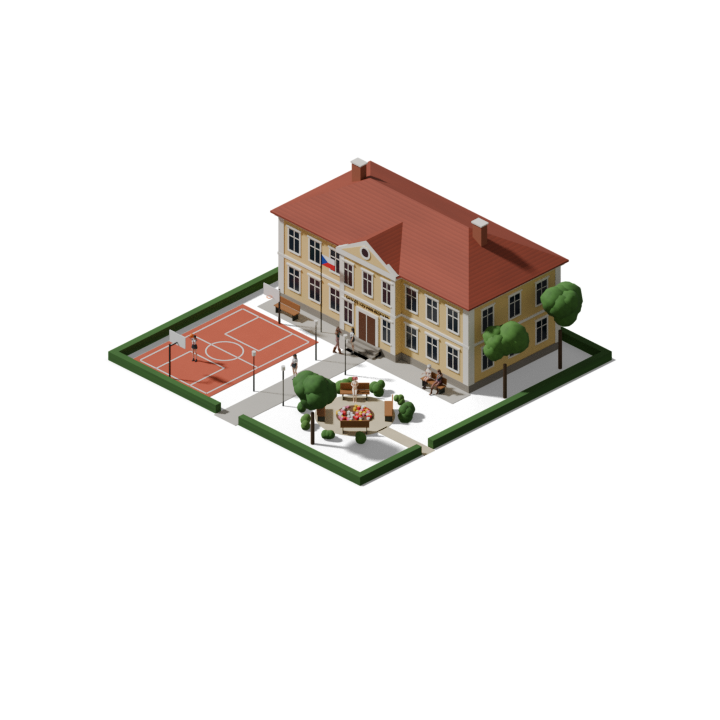
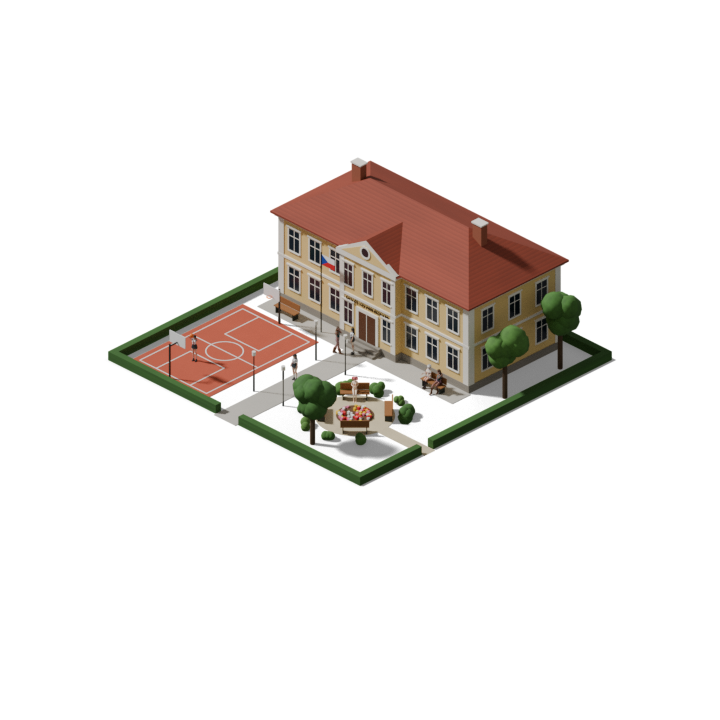
Gymnazium: cerna mista u schodu a dlazby pryc, stromy s kmenem az do koruny
Plochy pres sebe ve stejne rovine vysly v renderu cerne (bok schodu ze tri
kvadru, hlavni cesta pres dlazbu podel prucelim, sokl a rimsy rizalitu,
pricle oken, cary hriste, sterk v parku). Schody jsou ted jeden hranol se
tremi stupni, cesta navazuje na dlazbu, ostatni preklady posunute o mm.
Stromy: kmen sahal jen do 45 % vysky a koruna byla nad nim ve vzduchu,
ted kmen jde do koruny a spodek koruny je u kmene.

Znovu vyfocene vsechny ctyri obrazky (4x a 8x, bez holek i s holkami),
rohy v JSONu stejne, 8x presne dvojnasobek 4x. Poznamka pro hru v
hra/zarovnani-budov/ODPOVED-PRO-HRU.md: rozkrajet znovu.

Claude-Session: https://claude.ai/code/session_01P6zYdmMEQjTTZJyV6Qb8Ch

diff --git a/gymnazium/render_gymnazium.py b/gymnazium/render_gymnazium.py
@@ -156,9 +156,9 @@ for xx in (X0, X1 - LIZ):                                                       
     kvadr(M["bila"], xx, xx + LIZ, Y1, Y1 + 0.06, ZS, ZPP)
 # rizalit
 kvadr(M["fasada"], X1, RIZ_X, RIZ_Y0, RIZ_Y1, ZS, ZPP)
-kvadr(M["sokl"], X1, RIZ_X + 0.06, RIZ_Y0 - 0.06, RIZ_Y1 + 0.06, 0.0, ZS)
-kvadr(M["bila"], X1, RIZ_X + 0.25, RIZ_Y0 - 0.25, RIZ_Y1 + 0.25, ZPP, ZR)
-kvadr(M["bila"], X1, RIZ_X + 0.08, RIZ_Y0 - 0.08, RIZ_Y1 + 0.08, ZP - 0.1, ZP + 0.12)
+kvadr(M["sokl"], X1 + 0.06, RIZ_X + 0.06, RIZ_Y0 - 0.06, RIZ_Y1 + 0.06, 0.0, ZS)       # navazuji na sokl a rimsy hlavni
+kvadr(M["bila"], X1 + 0.25, RIZ_X + 0.25, RIZ_Y0 - 0.25, RIZ_Y1 + 0.25, ZPP, ZR)         # budovy (driv prekryv ve stejne
+kvadr(M["bila"], X1 + 0.08, RIZ_X + 0.08, RIZ_Y0 - 0.08, RIZ_Y1 + 0.08, ZP - 0.1, ZP + 0.12)  # vysce = cerna linka)
 for yy in (RIZ_Y0, RIZ_Y1 - 0.5):
     kvadr(M["bila"], RIZ_X, RIZ_X + 0.06, yy, yy + 0.5, ZS, ZPP)
 # stit nad rizalitem (trojuhelnik v rovine prucelim) a v nem kulate okno
@@ -206,7 +206,7 @@ def okno(prucelim, u, z0, z1, sirka=1.2):
     q(M["bila"], u - s2 - 0.22, u + s2 + 0.22, 0.0, 0.12, z1 + o, z1 + o + 0.12)   # nadokenni rimsa
     q(M["bila"], u - 0.03, u + 0.03, 0.0, 0.03, z0, z1)                    # poutce
     zt = z0 + (z1 - z0) * 0.68
-    q(M["bila"], u - s2, u + s2, 0.0, 0.03, zt - 0.03, zt + 0.03)
+    q(M["bila"], u - s2, u + s2, 0.0, 0.032, zt - 0.03, zt + 0.03)          # o 2 mm pred poutcem (krizeni)
 
 OKNA_Z = [(1.55, 3.55), (5.15, 7.15)]
 for z0, z1 in OKNA_Z:
@@ -220,9 +220,15 @@ okno(('x', RIZ_X), YC, 5.15, 7.15, 1.0)
 # vstup: dvoukridle dvere v portalu, nad nimi napis, pred nimi tri schody
 kvadr(M["bila"], RIZ_X, RIZ_X + 0.1, YC - 1.25, YC + 1.25, ZS, 3.55)          # portal
 kvadr(M["dvere"], RIZ_X + 0.1, RIZ_X + 0.13, YC - 0.95, YC + 0.95, ZS, 3.25)
-kvadr(M["bila"], RIZ_X + 0.1, RIZ_X + 0.15, YC - 0.03, YC + 0.03, ZS, 3.25)
-for i in range(3):
-    kvadr(M["sokl"], RIZ_X, RIZ_X + 0.36 * (3 - i), YC - 1.6, YC + 1.6, 0.0, 0.23 * (i + 1))
+kvadr(M["bila"], RIZ_X + 0.1, RIZ_X + 0.15, YC - 0.03, YC + 0.03, ZS, 3.24)
+# Schody jako jeden hranol se schodovitym profilem (do 2. 10. tri kvadry pres sebe: jejich boky lezely v jedne rovine
+# pres sebe a Cycles takove plochy kresli cerne, hrac: "schody chybi jim bok", "ta cerna mista"). Zadni stena 5 cm
+# v soklu rizalitu, at nelezi v rovine jeho lice.
+PROFIL = [(RIZ_X - 0.05, 0.0), (RIZ_X + 1.08, 0.0), (RIZ_X + 1.08, 0.23), (RIZ_X + 0.72, 0.23), (RIZ_X + 0.72, 0.46),
+          (RIZ_X + 0.36, 0.46), (RIZ_X + 0.36, 0.69), (RIZ_X - 0.05, 0.69)]
+_n = len(PROFIL)
+mnohostena(M["sokl"], [(x, YC - 1.6, z) for x, z in PROFIL] + [(x, YC + 1.6, z) for x, z in PROFIL],
+           [tuple(range(_n)), tuple(range(2 * _n - 1, _n - 1, -1))] + [(k, k + _n, (k + 1) % _n + _n, (k + 1) % _n) for k in range(_n)])
 bpy.ops.object.text_add(location=B(RIZ_X + 0.07, YC, 3.92), rotation=(math.radians(90), 0, 0))
 napis = bpy.context.object; napis.data.body = "DÍVČÍ GYMNÁZIUM"; napis.data.align_x = 'CENTER'; napis.data.align_y = 'CENTER'
 napis.data.font = bpy.data.fonts.load("/usr/share/fonts/truetype/dejavu/DejaVuSans-Bold.ttf")
@@ -253,23 +259,25 @@ for yy in (Y0 + 4.0, Y1 - 4.0):                                     # dva komín
 # ---------------------------------------------------------------- okoli: predprostor, cesty, hriste, park
 Z_ZEM = 0.035
 kvadr(M["dlazba"], X1 + 0.06, X1 + 2.2, Y0 - 0.3, Y1 + 0.3, 0.0, Z_ZEM)            # dlazba podel prucelim
-kvadr(M["dlazba"], RIZ_X + 1.08, P, YC - 1.25, YC + 1.25, 0.0, Z_ZEM)          # hlavni cesta k plotu
+kvadr(M["dlazba"], X1 + 2.2, P, YC - 1.25, YC + 1.25, 0.0, Z_ZEM)             # hlavni cesta k plotu, navazuje na dlazbu
+                                                                                 # podel prucelim (driv se prekryvaly: cerny pas)
 # hriste: cerveny kurt s carami a dvema kosi (podel osy x)
 KX0, KX1, KY0, KY1 = 15.2, 28.2, 1.6, 10.4
 kvadr(M["kurt"], KX0, KX1, KY0, KY1, 0.0, Z_ZEM)
 C, ZC_ = 0.08, Z_ZEM + 0.004
 kx0, kx1, ky0, ky1 = KX0 + 0.5, KX1 - 0.5, KY0 + 0.5, KY1 - 0.5
-for (a0, a1, b0, b1) in ((kx0, kx1, ky0, ky0 + C), (kx0, kx1, ky1 - C, ky1), (kx0, kx0 + C, ky0, ky1), (kx1 - C, kx1, ky0, ky1)):
-    kvadr(M["cara"], a0, a1, b0, b1, 0.0, ZC_)
+# cary, ktere se krizi, kazda o 0,5 mm jinak vysoko (ve stejne vysce by krizeni bylo cerne)
+for k, (a0, a1, b0, b1) in enumerate(((kx0, kx1, ky0, ky0 + C), (kx0, kx1, ky1 - C, ky1), (kx0, kx0 + C, ky0, ky1), (kx1 - C, kx1, ky0, ky1))):
+    kvadr(M["cara"], a0, a1, b0, b1, 0.0, ZC_ + 0.0005 * (k // 2))
 kxs, kys = (kx0 + kx1) / 2, (ky0 + ky1) / 2
-kvadr(M["cara"], kxs - C / 2, kxs + C / 2, ky0, ky1, 0.0, ZC_)
-mezikruzi(M["cara"], kxs, kys, 0.0, ZC_, 1.5, 1.5 + C)
+kvadr(M["cara"], kxs - C / 2, kxs + C / 2, ky0, ky1, 0.0, ZC_ + 0.001)
+mezikruzi(M["cara"], kxs, kys, 0.0, ZC_ + 0.0015, 1.5, 1.5 + C)
 for kraj, smer in ((kx0, 1), (kx1, -1)):
     xa, xb = sorted((kraj, kraj + smer * 4.0))
     for (a0, a1, b0, b1) in ((xa, xb, kys - 2.0, kys - 2.0 + C), (xa, xb, kys + 2.0 - C, kys + 2.0)):
-        kvadr(M["cara"], a0, a1, b0, b1, 0.0, ZC_)
+        kvadr(M["cara"], a0, a1, b0, b1, 0.0, ZC_ + 0.002)
     xr = kraj + smer * 4.0
-    kvadr(M["cara"], xr - C / 2, xr + C / 2, kys - 2.0, kys + 2.0, 0.0, ZC_)
+    kvadr(M["cara"], xr - C / 2, xr + C / 2, kys - 2.0, kys + 2.0, 0.0, ZC_ + 0.0025)
     # kos: sloup za cárou, rameno, deska a obruc
     xs = kraj - smer * 0.35
     kvadr(M["kov"], xs - 0.06, xs + 0.06, kys - 0.06, kys + 0.06, 0.0, 3.3)
@@ -287,8 +295,8 @@ for i in range(70):                                                     # kvetin
     r = 1.45 * math.sqrt(random.random()); a = random.random() * 2 * math.pi
     x, y = PX_ + r * math.cos(a), PY_ + r * math.sin(a)
     kvadr(KVETY[i % len(KVETY)], x - 0.09, x + 0.09, y - 0.09, y + 0.09, Z_ZEM + 0.08, Z_ZEM + 0.08 + 0.12 + 0.12 * random.random())
-kvadr(M["sterk"], PX_ - 0.6, PX_ + 0.6, YC + 1.25, PY_ - 3.1, 0.0, Z_ZEM)
-kvadr(M["sterk"], PX_ - 0.6, PX_ + 0.6, PY_ + 3.1, P, 0.0, Z_ZEM)
+kvadr(M["sterk"], PX_ - 0.6, PX_ + 0.6, YC + 1.25, PY_ - 3.1, 0.0, Z_ZEM - 0.002)    # o 2 mm nize nez namesticko,
+kvadr(M["sterk"], PX_ - 0.6, PX_ + 0.6, PY_ + 3.1, P, 0.0, Z_ZEM - 0.002)            # do ktereho kus zajizdeji
 # Holky a lavicky 1,5x vetsi nez budova (hrac 1. 10.: "skola zvetsit studentky, zvetsime i lavicky, dvere do skoly jsou
 # velke dost, muzem zvetsit studentky"): holka 2,43 az 2,52 m, dvere 2,55 m, ve 2x (3,2 m) by uz dvermi neprosla.
 K_LAV = float(os.environ.get("LAVICKY", "1.5"))
@@ -330,15 +338,19 @@ plot_x(PL0, PX_ - 0.65, P - PL1, P - PL0); plot_x(PX_ + 0.65, P - PL1, P - PL1, 
 plot_x(PL0, P - PL1, PL0, PL1)                                                             # severozapadni strana
 plot_x(PL0, PL1, PL1, P - PL1)                                                             # severovychodni strana
 
-# stromy: kmen a koruna z nekolika koul, stin od koruny dela hloubku
+# stromy: kmen a koruna z nekolika koul, stin od koruny dela hloubku. Kmen jde az doprostred koruny a spodni koule
+# koruny sahaji k nemu (hrac 2. 10.: "dva stromy vedle budovy maji vysoko koruny nad kmenem, je to tycka ze zeme,
+# mezera a koruna"; drive kmen koncil ve 45 % vysky a koruna zacinala az nad nim)
 def strom(x, y, vyska, r, barva, seed, kmen=True):
     rnd = random.Random(seed)
-    if kmen: valec(M["kmen"], x, y, 0.0, vyska * 0.45, 0.15, 8)
+    if kmen: valec(M["kmen"], x, y, 0.0, vyska - r * 1.05, 0.2, 8)
     obj_m = KORUNY[barva]
     for i in range(9 if kmen else 4):
         a = rnd.random() * 2 * math.pi; d = r * 0.55 * math.sqrt(rnd.random())
         cx, cy = x + d * math.cos(a), y + d * math.sin(a)
-        cz = vyska - r * 1.05 + (rnd.random() - 0.3) * r * 0.7
+        cz = vyska - r * 1.1 + (rnd.random() - 0.5) * r * 0.6
+        if kmen and i < 3:                                              # spodek koruny tesne nad kmenem
+            cx, cy, cz = x + (cx - x) * 0.5, y + (cy - y) * 0.5, vyska - r * 1.7
         rr = r * (0.48 + 0.22 * rnd.random())
         bpy.ops.mesh.primitive_ico_sphere_add(subdivisions=3, radius=rr, location=B(cx, cy, cz))
         o = bpy.context.object; o.data.materials.append(obj_m)

diff --git a/gymnazium/README.md b/gymnazium/README.md
@@ -73,3 +73,19 @@ zvětšená 1,5× je v repu od 1. 10. večer (`822f355`), stačí si vzít nové
 1440 × 1440 px (políčko 512 px): obrázek i rohy jsou přesně dvojnásobek 4×. Oba snímky animace jsou v 8×, druhý
 sloučený s prvním (`postavy/animace.py`) jako ve 4×. Kontrolní 4× render po úpravě skriptu vyšel stejně jako
 `gymnazium_zin4.png` v repu.
+
+## Černá místa u schodů a stromy (2. 10. večer)
+
+Hráč podle fotky ze hry: *„pohly se schody a dva stromy vedle budovy maj vysoko koruny nad kmenem, je to tyčka ze
+země, mezera a koruna“*, pak *„schody jsou dobře napasované, chybí jim bok a dlažba na konci. ta černá místa“*.
+
+- **Černá místa:** kde v modelu ležely dvě plochy přesně přes sebe ve stejné rovině, nakreslil je Blender černě.
+  Tak zčernal bok schodů (tři kvádry přes sebe) a pruh dlažby před nimi (hlavní cesta přes dlažbu podél průčelí),
+  takže schody vypadaly ujeté. Schody jsou teď jeden kus se třemi stupni, cesta začíná až za dlažbou podél průčelí.
+  Stejně opravené i menší překryvy: sokl a římsy rizalitu, příčle oken, čáry hřiště, štěrkové cestičky v parku.
+  Černých pixelů u schodů ve 4× ubylo z 56 na 3 (zbyl jen sloup lampy), v 8× zmizel celý černý pruh.
+- **Stromy:** kmen končil ve 45 % výšky a koruna začínala až nad ním (tyčka, mezera, koruna). Kmen teď sahá do
+  koruny a spodek koruny je u kmene. Platí pro všechny tři stromy (dva u budovy a jeden v parku), keře se nemění.
+- Holky stojí, kde stály. Rohy v JSONu jsou stejné, 8× je pořád přesně dvojnásobek 4×.
+- Znovu vyfocené všechny čtyři obrázky: `gymnazium_zin4.png`, `gymnazium_postavy_zin4.png`, `gymnazium_zin8.png`,
+  `gymnazium_postavy_zin8.png` (s holkami zase sloučené s obrázkem bez holek přes `postavy/animace.py`).

diff --git a/hra/zarovnani-budov/ODPOVED-PRO-HRU.md b/hra/zarovnani-budov/ODPOVED-PRO-HRU.md
@@ -133,3 +133,14 @@ jeden obrázek bez fází růstu“*. Obrázky jsou v `pole/`, popis v `pole/REA
   - cennosti a diamanty nevozí žádné, hráč na ně udělá Avii VB;
   - odpad jede na šedé kupě.
 - **Dodávky v6** (`auta/dodavky_BRYLE_v6.grf`): kovy pod plachtou, odpad na valníku s kamennou kupou.
+
+## Gymnázium: černá místa u schodů a stromy (2. 10. večer)
+
+Hráč podle fotky z vaší hry: *„schody jsou dobře napasované, chybí jim bok a dlažba na konci. ta černá místa“* a
+*„dva stromy vedle budovy maj vysoko koruny nad kmenem, je to tyčka ze země, mezera a koruna“*.
+
+- **Krájení je v pořádku**, chyba byla v našem obrázku: plochy přes sebe ve stejné rovině vyšly v renderu černé (bok
+  schodů a pruh dlažby před nimi). Opraveno v modelu, stromy mají kmen až do koruny.
+- **Změnily se všechny čtyři obrázky:** `gymnazium/gymnazium_zin4.png`, `gymnazium/gymnazium_postavy_zin4.png`,
+  `gymnazium/gymnazium_zin8.png`, `gymnazium/gymnazium_postavy_zin8.png`. Prosím rozkrájet znovu (4× i 8×).
+- Rohy v JSONu jsou stejné, velikost obrázků taky, 8× je přesně dvojnásobek 4×. Holky jsou na stejných místech.
